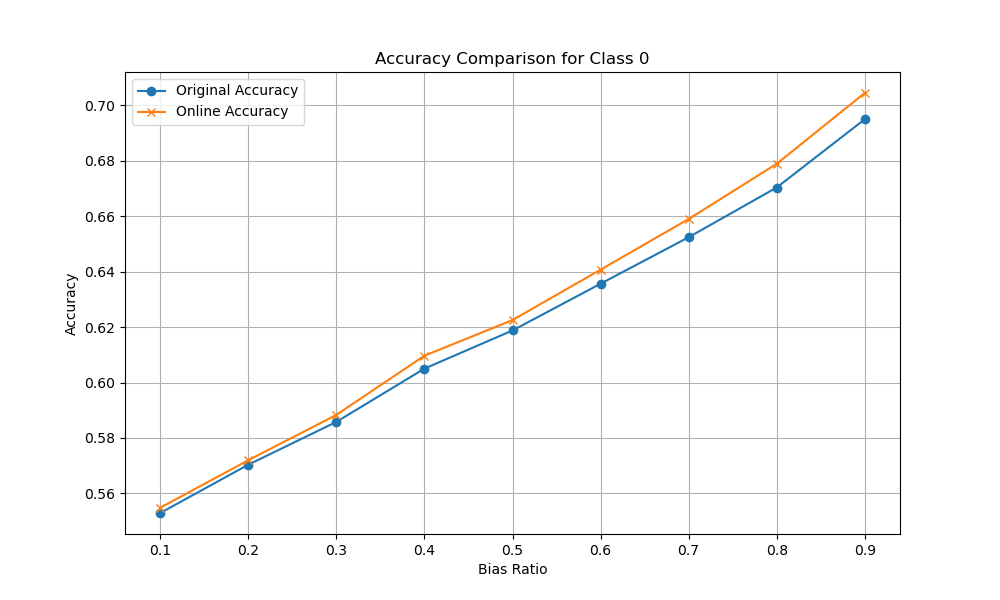
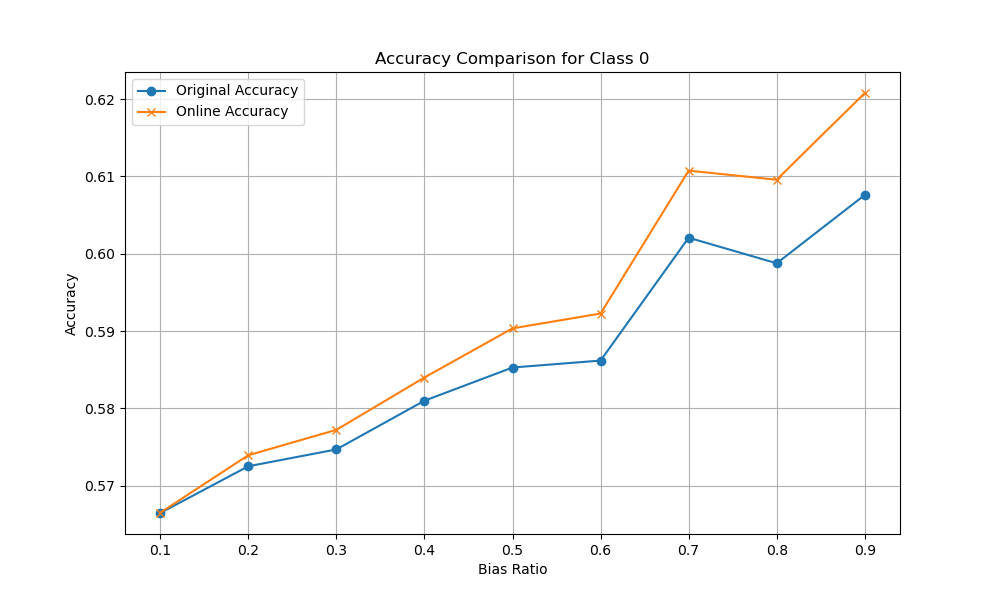
changed model to run for 50 epochs first

diff --git a/generative/VAE_classification_bias.py b/generative/VAE_classification_bias.py
@@ -254,7 +254,7 @@ def loss_KL_wo_E(output):
 
 ##################
 ### Problem 3(c): Train VAE with ELBO loss
-epochs = 20
+epochs = 50
 
 hidden_dims = [128, 32, 16, 4]
 assert hidden_dims[-1] == 4, "always use 4 as the latent dimension for generating a 2D image grid during evaluation"
@@ -269,7 +269,7 @@ print(vae_sgvb)
 coeff = 1e-4
 
 optimizer_vae_sgvb = torch.optim.Adam(vae_sgvb.parameters(),
-                                lr = 5e-3,
+                                lr = 1e-3,
                                 weight_decay = 1e-8)
 
 log_vae_sgvb = train(MNIST_loader, vae_sgvb, lambda model, x: loss_func(model, x, reg_func=loss_SGVB, coeff=coeff), optimizer_vae_sgvb, epochs)
@@ -853,7 +853,7 @@ def prepare_biased_loaders_for_class(dataset, biased_class, batch_size=256, shuf
 
 for k in range(10):
     # Example usage
-    biased_class_label = 0  # Replace with the desired class to bias
+    biased_class_label = k  # Replace with the desired class to bias
     biased_loaders = prepare_biased_loaders_for_class(
         dataset=MNIST_dataset,  # Replace with your dataset
         biased_class=biased_class_label,
